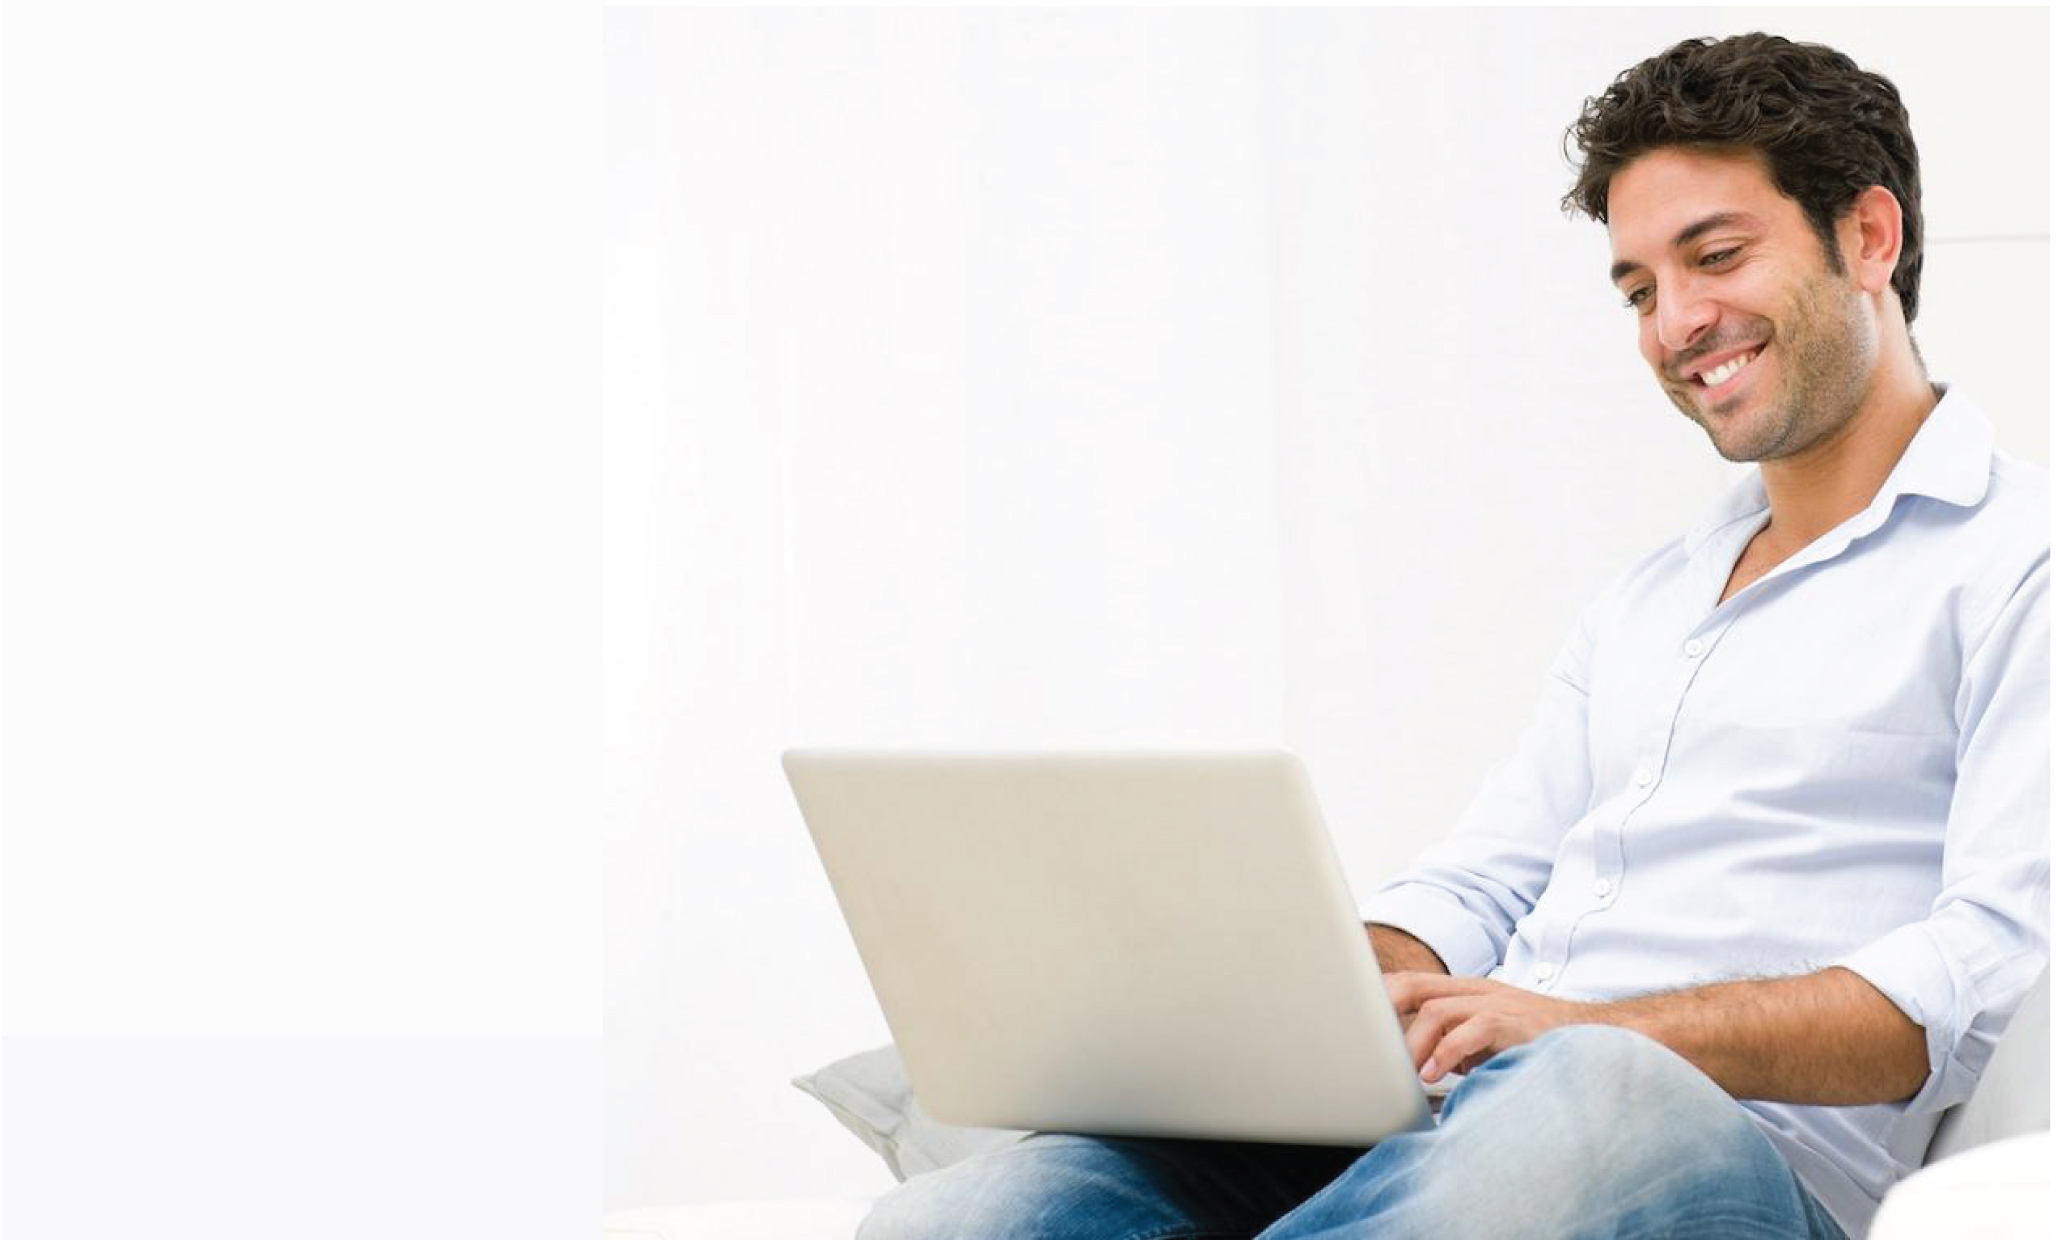
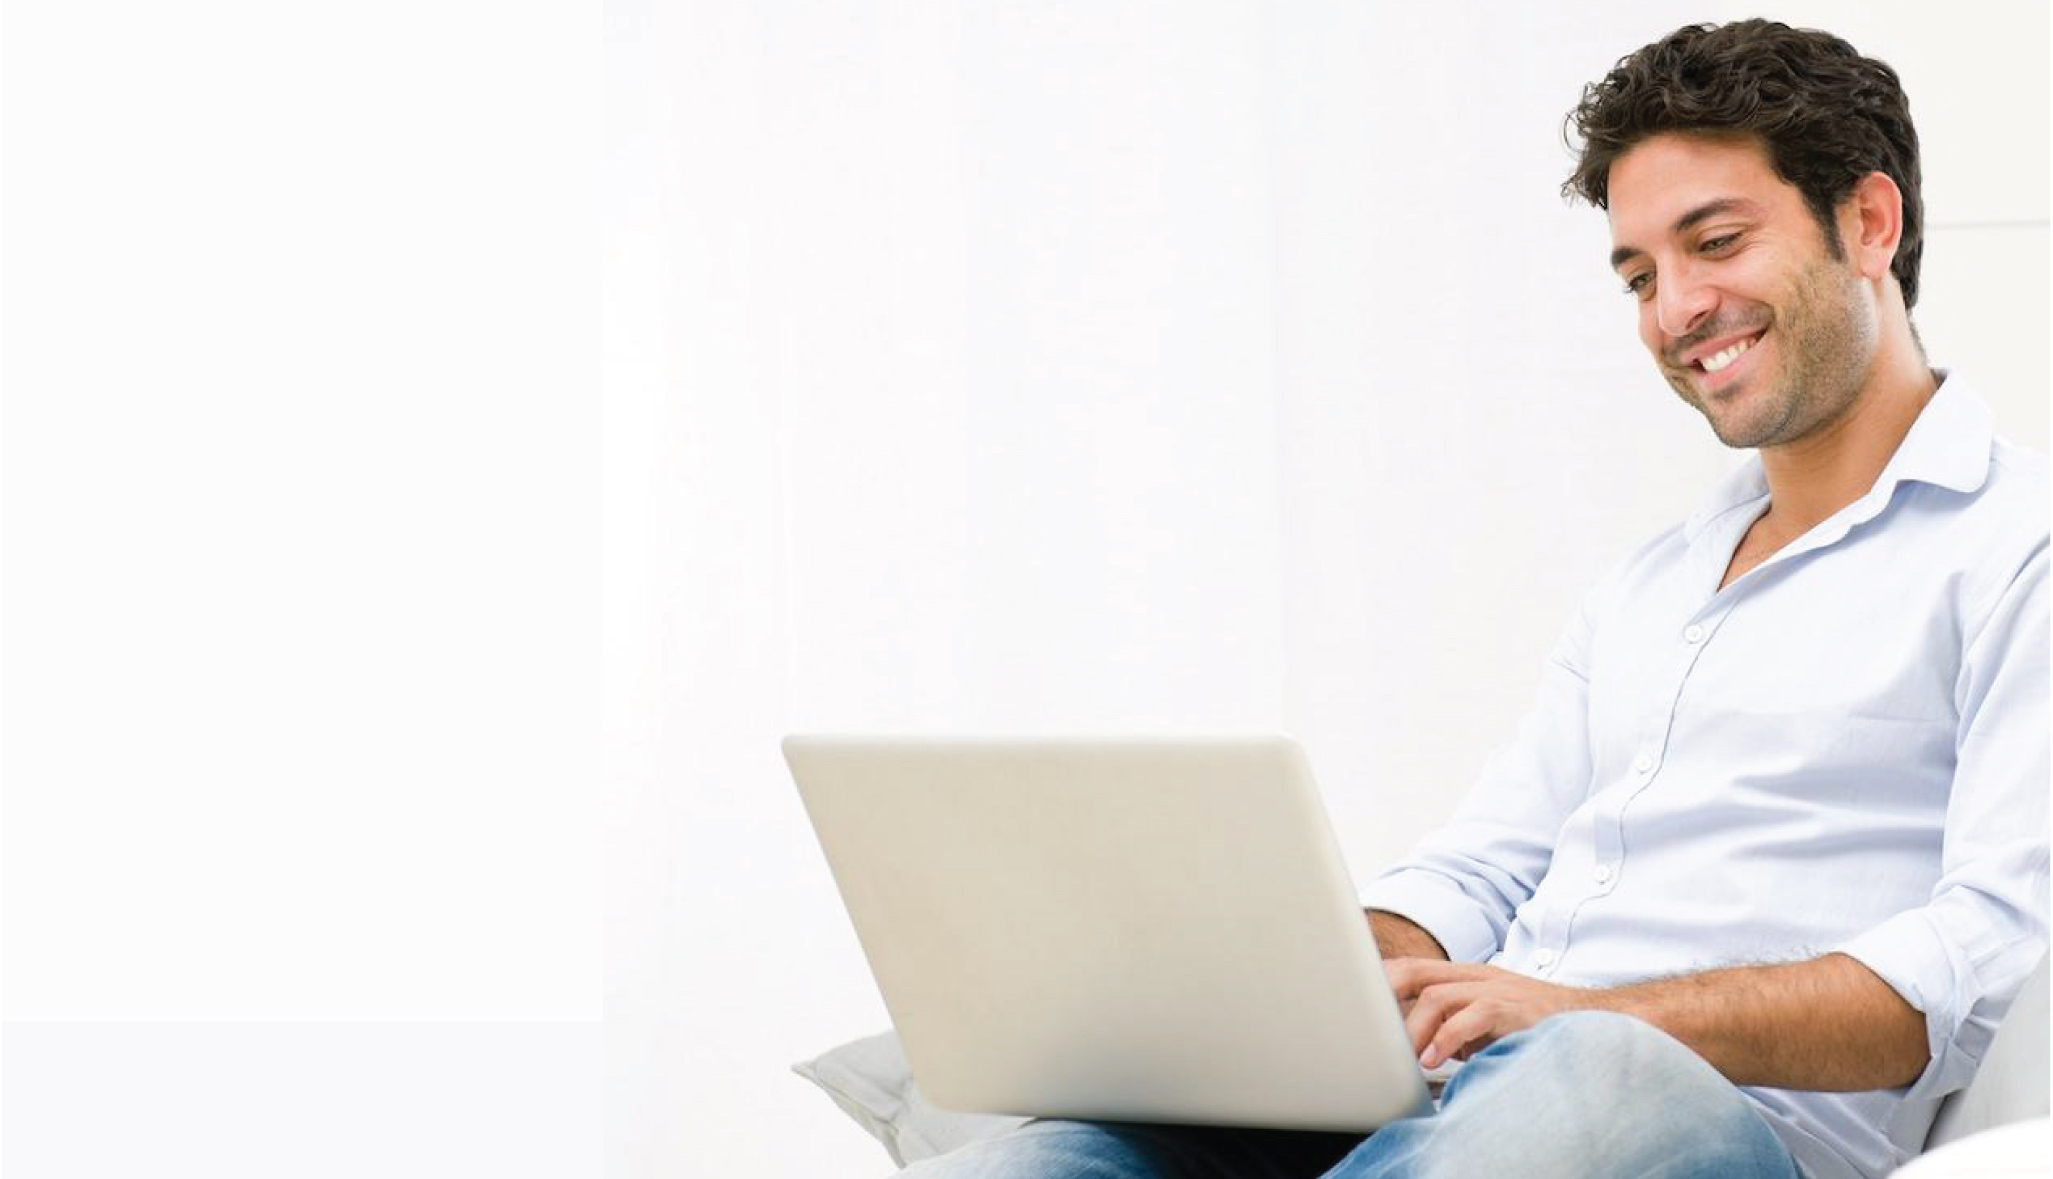
header fine tuning

diff --git a/dist/styles.css b/dist/styles.css
@@ -1,9 +1,20 @@
+html,
+body,
+ul,
+ol,
+img,
+button {
+  margin: 0;
+  padding: 0;
+  font-family: Helvetica;
+  box-sizing: border-box; }
+
 .logo-top {
   width: 100%;
   background-color: #2e424a; }
   .logo-top img {
-    max-width: 15%;
-    padding-top: 1%;
+    max-width: 13%;
+    padding-top: 0.5%;
     padding-left: 2%; }
 
 .header-main {
@@ -14,37 +25,39 @@
     top: 5%;
     left: 2%; }
   .header-main form {
-    font-family: sans-serif;
+    font-family: Helvetica;
     margin-left: 2%;
-    padding: 10px;
+    padding: 5px 10px 0px 10px;
     display: flex;
     flex-direction: column;
-    justify-content: space-between;
-    width: 40%;
+    justify-content: space-evenly;
+    width: 39%;
     position: absolute;
-    height: 34%;
-    bottom: 10%;
+    height: 40%;
+    bottom: 9%;
     border-radius: 5px;
-    background-color: rgba(128, 128, 128, 0.2); }
+    background-color: rgba(128, 128, 146, 0.2);
+    max-height: 225px;
+    min-height: 200px; }
     .header-main form input, .header-main form button {
-      height: 40px;
+      height: 44px;
       border-radius: 5px; }
     .header-main form input {
       border: 1px solid darkgrey;
       padding: 0;
       padding-left: 10px;
-      font-size: 18px; }
+      font-size: 20px; }
     .header-main form input::placeholder {
       font-weight: 100;
       color: lightgrey; }
     .header-main form label, .header-main form span {
-      color: dimgrey;
-      margin-bottom: 1%;
-      margin-top: 1%; }
+      color: dimgrey; }
     .header-main form label {
+      font-size: 19px; }
+    .header-main form .company-link {
       font-size: 17px; }
-    .header-main form span {
-      font-size: 16px; }
+      .header-main form .company-link:hover {
+        border-bottom: 2px solid; }
     .header-main form .name-and-school {
       display: flex;
       flex-direction: row; }
@@ -52,19 +65,31 @@
         width: 50%;
         box-sizing: border-box; }
       .header-main form .name-and-school input:last-of-type {
-        margin-left: 10px; }
+        margin-left: 7px; }
     .header-main form .email input {
       width: 100%;
       box-sizing: border-box; }
     .header-main form button {
-      background: linear-gradient(#29af70, #35a370);
+      background: #29af70;
       color: white;
-      font-size: 18px;
+      font-size: 21px;
       border: 0px;
-      font-weight: 500; }
+      font-weight: 500;
+      letter-spacing: 0.5px;
+      transition: background 0.5s; }
+      .header-main form button:hover {
+        background: #377e5d; }
+  .header-main .company-tag {
+    display: flex;
+    position: absolute;
+    margin-left: 2.5%;
+    bottom: 2%;
+    color: dimgrey;
+    font-size: 19px; }
 
 .logos-bottom img {
   max-width: 100%;
-  border: 5px solid #eef1f6;
+  border: 7px solid #eef1f6;
   border-left: 0;
-  border-right: 0; }
+  border-right: 0;
+  padding: 0% 2% 0% 2%; }

diff --git a/src/css/styles.scss b/src/css/styles.scss
@@ -1,14 +1,17 @@
+@import 'reset';
+
 $background: #2e424a;
 $grey: #eef1f6;
 $button1: #29af70;
 $button2: #35a370;
+$button3: #377e5d;
 
 .logo-top {
   width: 100%;
   background-color: $background;
   img {
-    max-width: 15%;
-    padding-top: 1%;
+    max-width: 13%;
+    padding-top: 0.5%;
     padding-left: 2%;
   }
 }
@@ -22,21 +25,24 @@ $button2: #35a370;
     left: 2%;
   }
   form {
-    font-family: sans-serif;
+    font-family: Helvetica;
     margin-left: 2%;
-    padding: 10px;
+    padding: 5px 10px 0px 10px;
     display: flex;
     flex-direction: column;
-    justify-content: space-between;
-    width: 40%;
+    justify-content: space-evenly;
+    width: 39%;
     position: absolute;
-    height: 34%;
-    bottom: 10%;
+    height: 40%;
+    bottom: 9%;
     border-radius: 5px;
-    background-color: rgba(128,128,128,0.2);
+    background-color: rgba(128,128,146,0.2);
+    max-height: 225px;
+    min-height: 200px;
+
 
     input, button {
-      height: 40px;
+      height: 44px;
       border-radius: 5px;
     }
 
@@ -44,7 +50,7 @@ $button2: #35a370;
       border: 1px solid darkgrey;
       padding: 0;
       padding-left: 10px;
-      font-size: 18px
+      font-size: 20px
     }
 
     input::placeholder {
@@ -54,16 +60,17 @@ $button2: #35a370;
 
     label, span {
       color: dimgrey;
-      margin-bottom: 1%;
-      margin-top: 1%;
     }
 
     label {
-      font-size: 17px;
+      font-size: 19px;
     }
 
-    span {
-      font-size: 16px;
+    .company-link {
+      font-size: 17px;
+      &:hover {
+        border-bottom: 2px solid;
+      }
     }
 
     .name-and-school {
@@ -74,7 +81,7 @@ $button2: #35a370;
         box-sizing: border-box;
       }
       input:last-of-type {
-        margin-left: 10px;
+        margin-left: 7px;
       }
     }
 
@@ -86,20 +93,34 @@ $button2: #35a370;
     }
 
     button {
-      background: linear-gradient($button1, $button2);
+      background: $button1;
       color: white;
-      font-size: 18px;
+      font-size: 21px;
       border: 0px;
       font-weight: 500;
+      letter-spacing: 0.5px;
+      transition: background 0.5s;
+      &:hover {
+        background: $button3;
+      }
     }
+  }
+  .company-tag {
+    display: flex;
+    position: absolute;
+    margin-left: 2.5%;
+    bottom: 2%;
+    color: dimgrey;
+    font-size: 19px;
   }
 }
 
 .logos-bottom {
   img {
     max-width: 100%;
-    border: 5px solid $grey;
+    border: 7px solid $grey;
     border-left: 0;
     border-right: 0;
+    padding: 0% 2% 0% 2%;
   }
 }

diff --git a/src/components/header/interestForm.jsx b/src/components/header/interestForm.jsx
@@ -12,7 +12,9 @@ class InterestForm extends Component {
   }
 
   handleSubmit(e) {
-
+    e.preventDefault();
+    console.log(this.state);
+    alert(`Thanks for your interest, ${this.state.name}!`)
   }
 
   update(property) {
@@ -21,7 +23,10 @@ class InterestForm extends Component {
 
   render() {
     return (
-      <form className="interest-form">
+      <form
+        className="interest-form"
+        onSubmit={this.handleSubmit}
+        >
         <label>Interested Student?</label>
         <div className="name-and-school">
           <input
@@ -45,10 +50,14 @@ class InterestForm extends Component {
         <button
           className="interest-button">Interested Student
         </button>
-        <span
-          onClick={()=> console.log('link to some other form')}>
-          Interested Company?
-        </span>
+        <div>
+          <span
+            className="company-link"
+            onClick={()=> console.log('link to some other form')}>
+            Interested Company?
+          </span>
+          <span></span>
+        </div>
       </form>
     );
   }

diff --git a/src/components/header/headerBody.jsx b/src/components/header/headerBody.jsx
@@ -9,7 +9,7 @@ const backgroundStyle = {
   background: `url(${hero})`,
   backgroundSize: "contain",
   backgroundRepeat: 'no-repeat',
-  paddingTop: "60.31%"
+  paddingTop: "57.43%"
 };
 
 const headerBody = () => (
@@ -17,6 +17,10 @@ const headerBody = () => (
     style={backgroundStyle} className="header-main">
     <img src={headerGraphic}></img>
     <InterestForm></InterestForm>
+    <div
+      className='company-tag'>
+      Companies using Piazza Careers:
+    </div>
   </div>
 );
 

diff --git a/src/css/_reset.scss b/src/css/_reset.scss
@@ -1,0 +1,11 @@
+html,
+body,
+ul,
+ol,
+img,
+button {
+  margin:  0;
+  padding: 0;
+  font-family: Helvetica;
+  box-sizing: border-box;
+}
